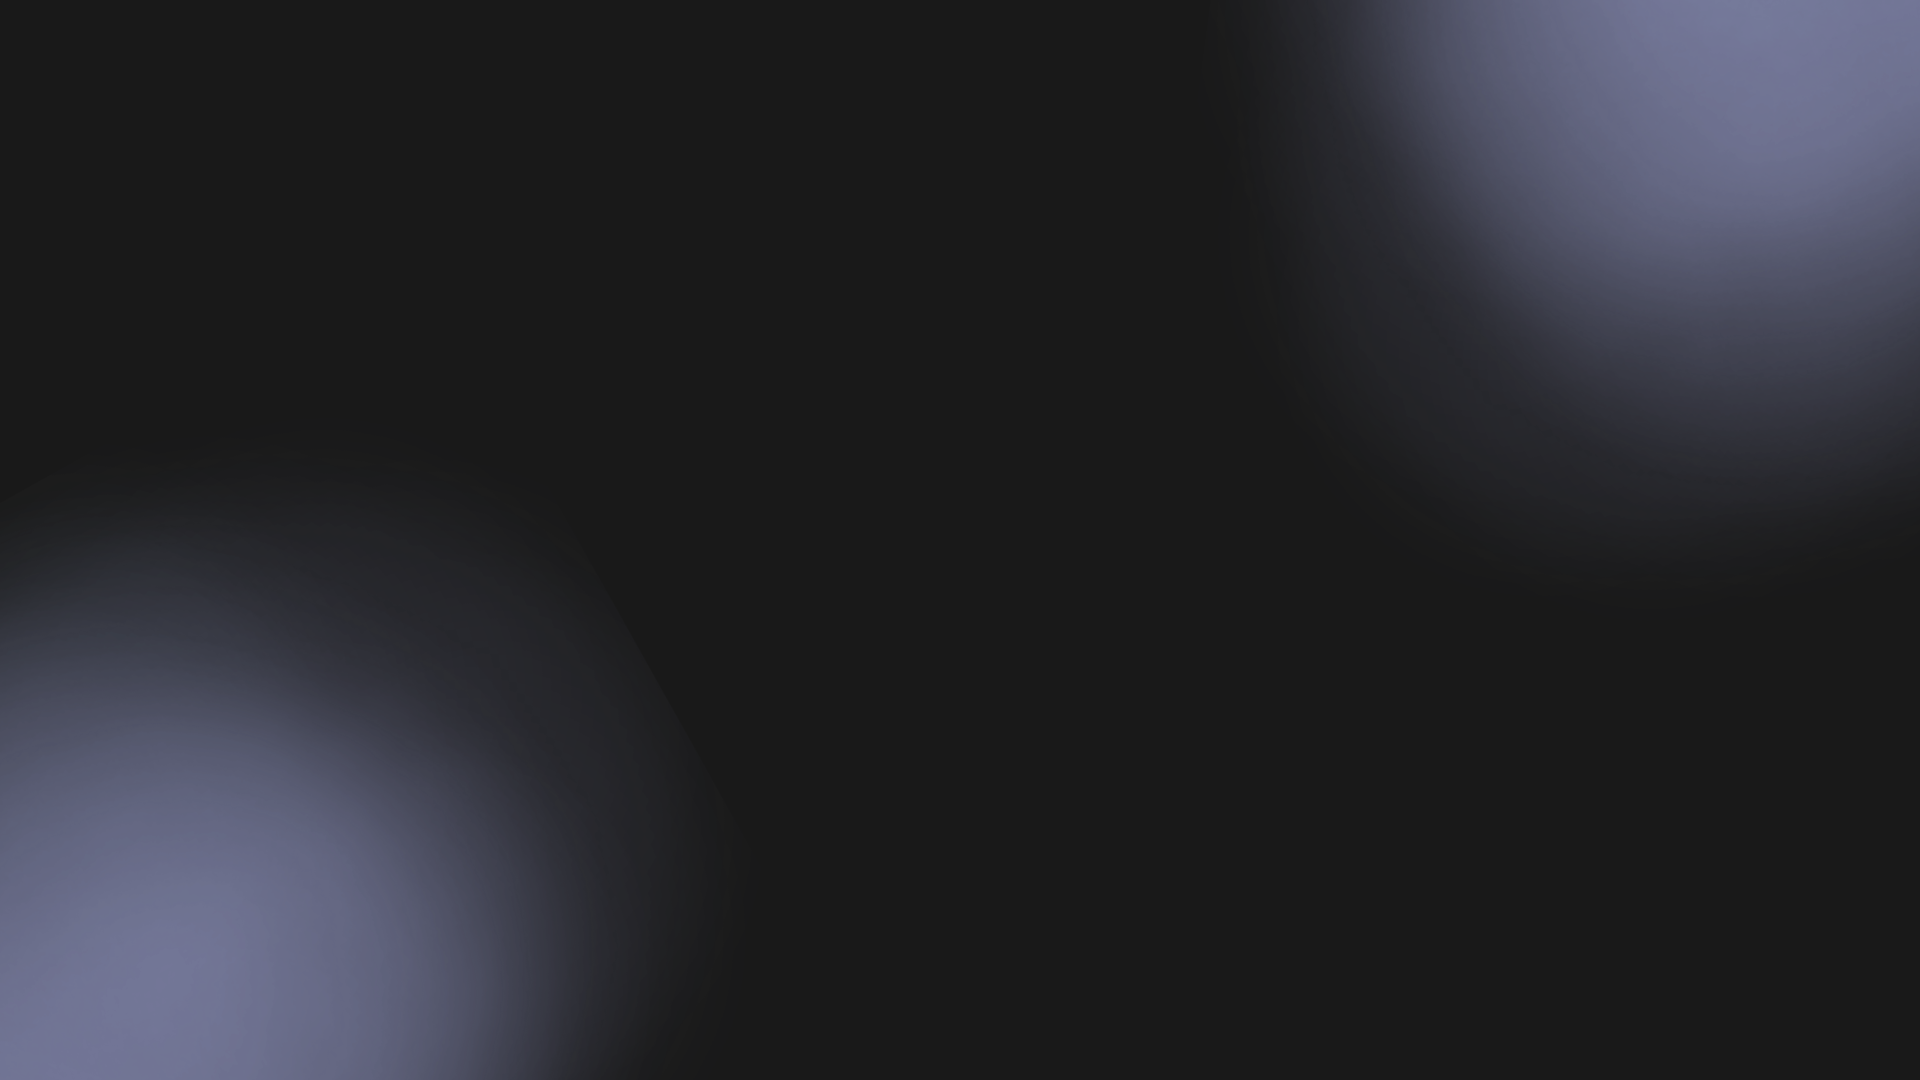
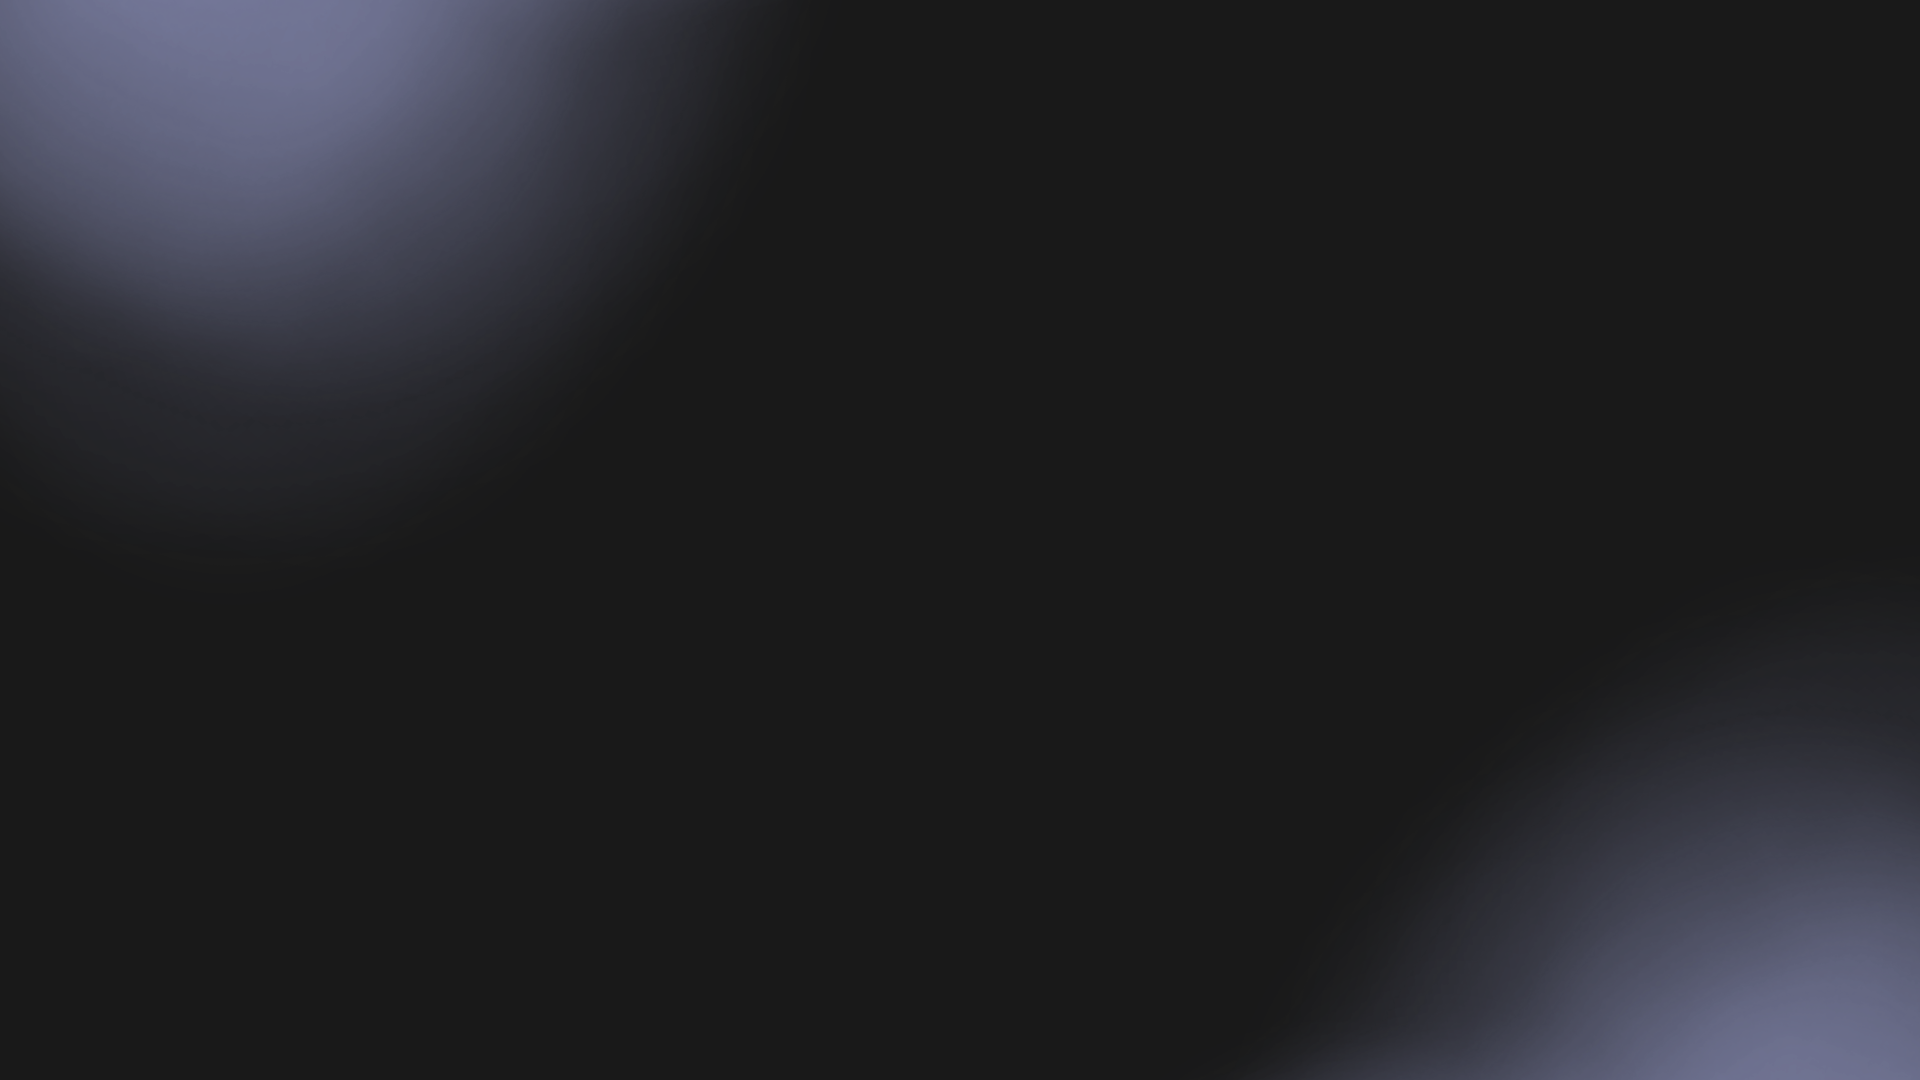
mudanças no background

diff --git a/card devlinks/style.css b/card devlinks/style.css
@@ -167,3 +167,13 @@ footer{
    
     display: flex;
 }
+
+@media (min-width: 700px){
+    :root{
+        --bg-url: url(./assets/bg-desktop-dark.png);
+    }
+
+    .light{
+        --bg-url: url(./assets/bg-desktop-light.png);
+    }
+}
